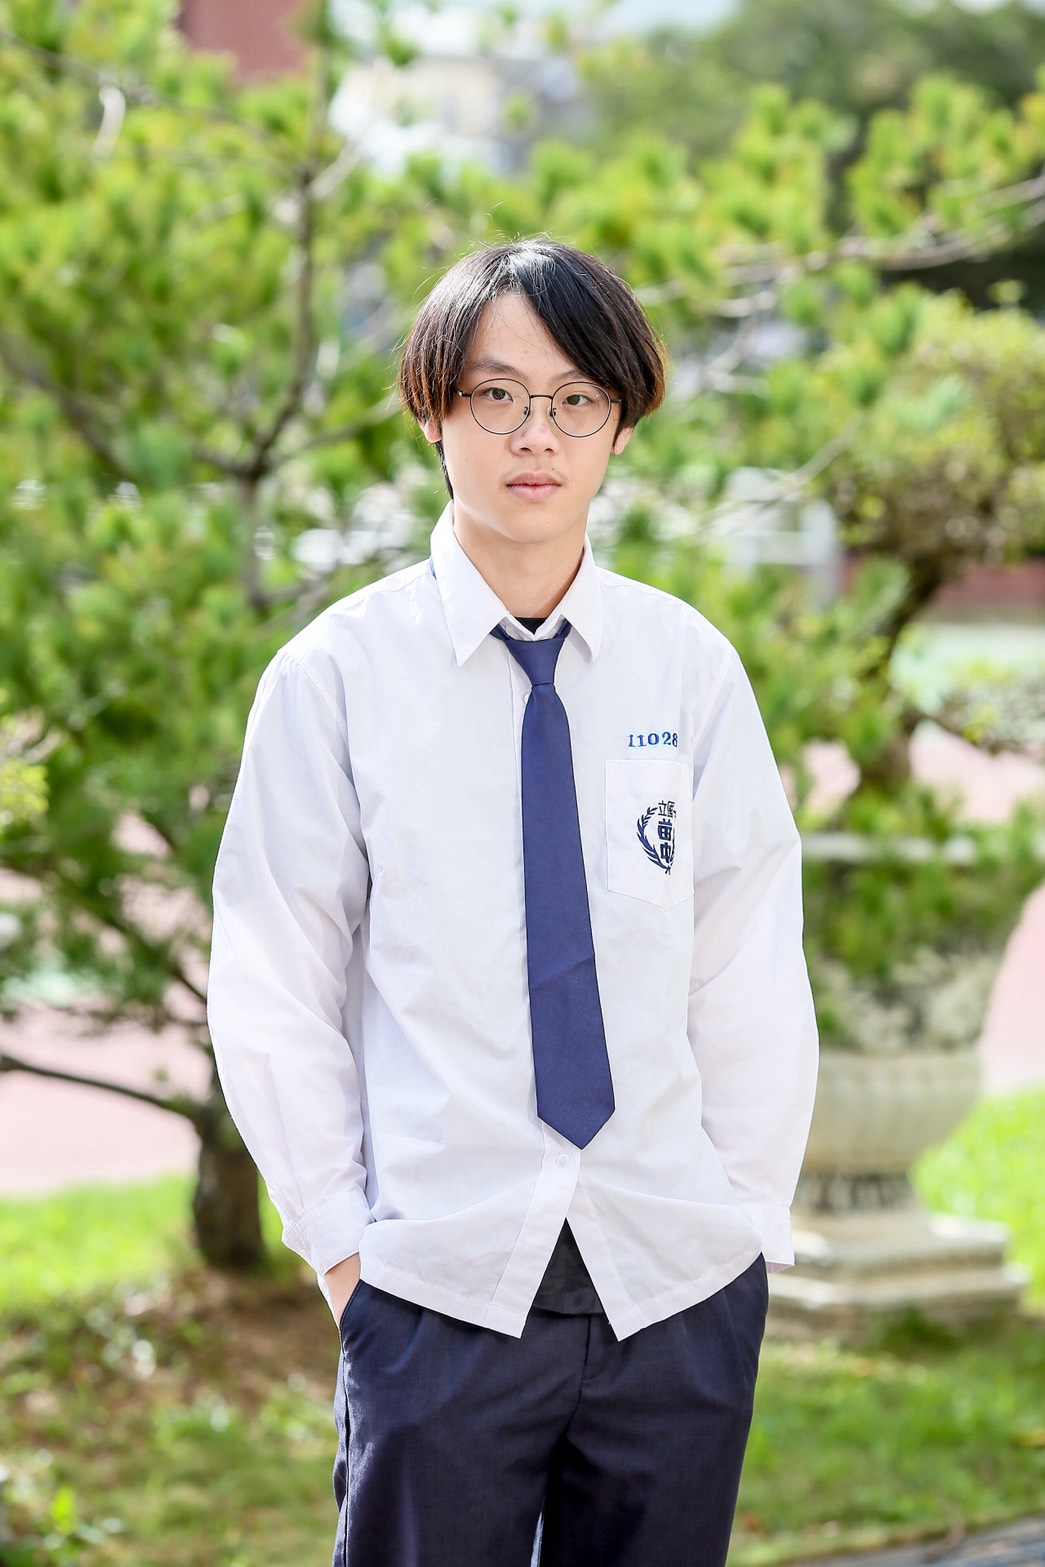
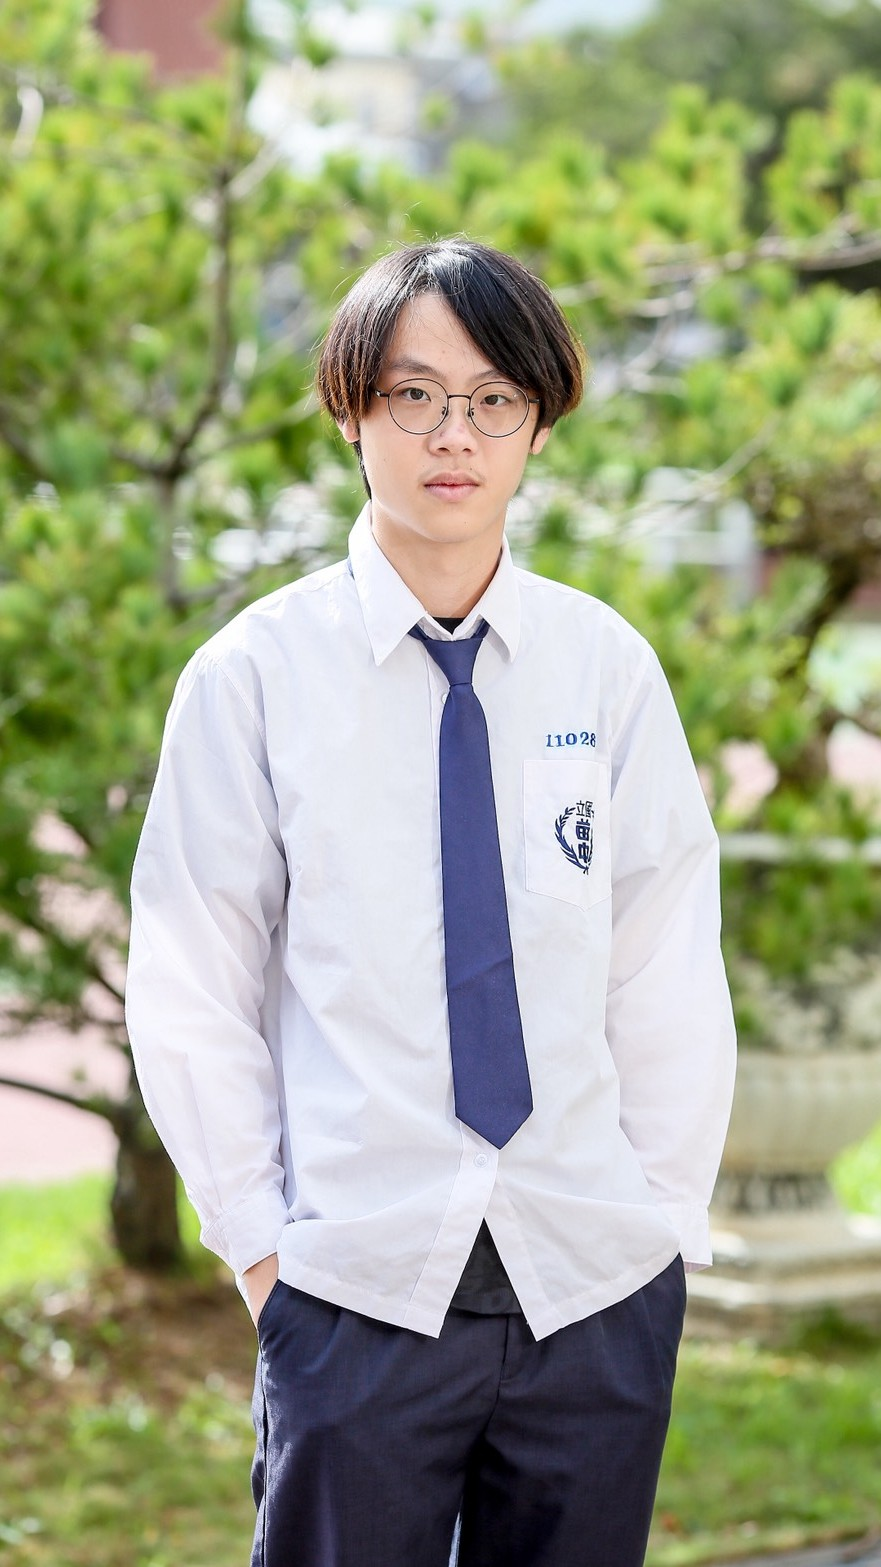
fix: 修正圖片大小

diff --git a/index.html b/index.html
@@ -8,6 +8,6 @@
 <body>
     <h1>11404101劉嘉恆</h1>
     <p>電子郵件:jiaheng0205@gmail.com<br>ig:jiaheng0205<br>電話:0917771295</p>
-    <img src="img/me.jpg" with="1045" heigh="1567" alt="一張圖片">
+    <img src="img/me.jpg" with="180" heigh="320" alt="一張圖片">
 </body>
 </html>
